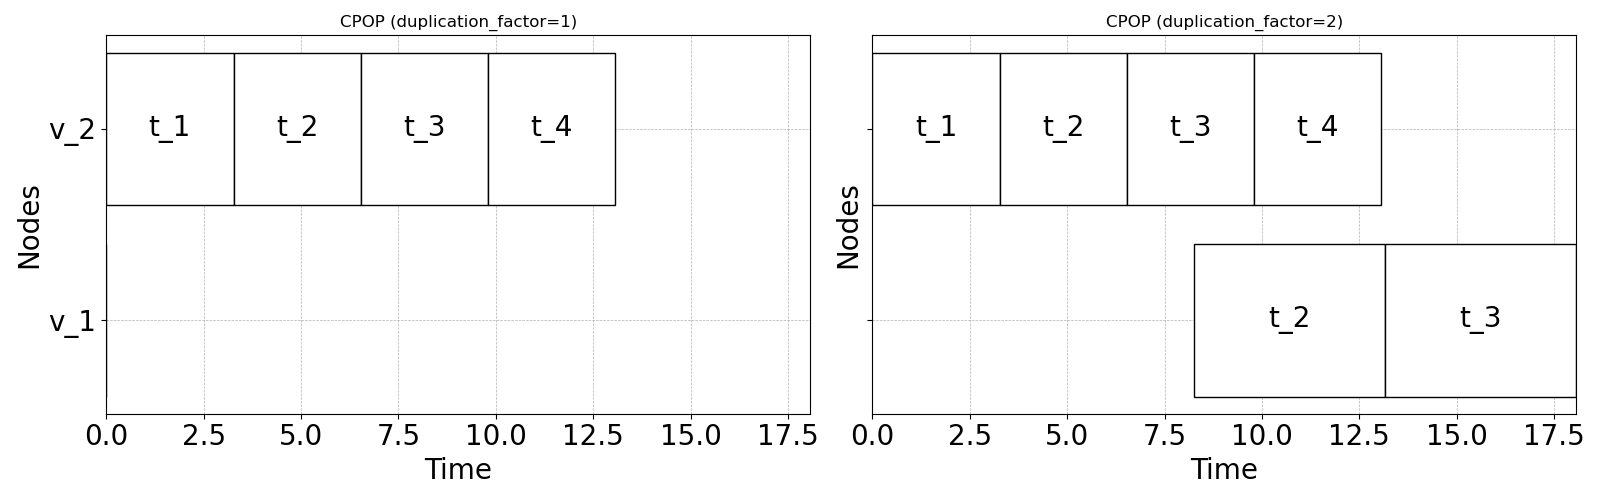
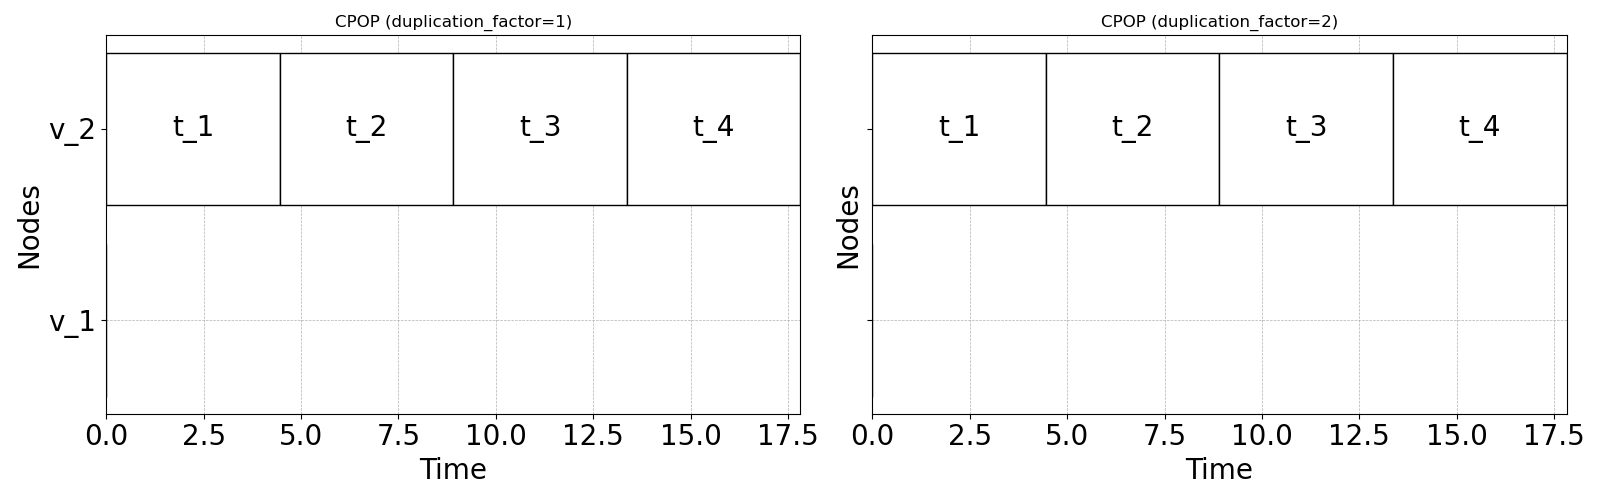
simple example not working

diff --git a/scripts/examples/debug_duplicating/main.py b/scripts/examples/debug_duplicating/main.py
@@ -17,7 +17,7 @@ def build_uniform_network() -> Network:
 	"""Create a small homogeneous network for the diamond example."""
 	nodes = [
 		("v_1", 1.0),
-		("v_2", 1.5),
+		("v_2", 1.1),
 	]
 	edges = [
 		("v_1", "v_2", 1.0)
@@ -86,7 +86,7 @@ def run_experiment():
 
 	for name, scheduler_class in scheduler_classes:
 		schedules_by_factor: dict[int, Schedule] = {}
-		for duplication_factor in (1, 2):
+		for duplication_factor in (1,2):
 			scheduler = scheduler_class(duplication_factor=duplication_factor)
 			schedule = scheduler.schedule(network, task_graph)
 			schedules_by_factor[duplication_factor] = schedule

diff --git a/src/saga/schedulers/cpop.py b/src/saga/schedulers/cpop.py
@@ -187,7 +187,7 @@ class CpopScheduler(Scheduler):
 
             duplicate_factor = 1
             if not is_critical and should_duplicate(task.name, task_graph, network):
-                duplicate_factor = max(
+                duplicate_factor = min(
                     self.duplication_factor, len(task_graph.out_edges(task.name))
                 )
 
